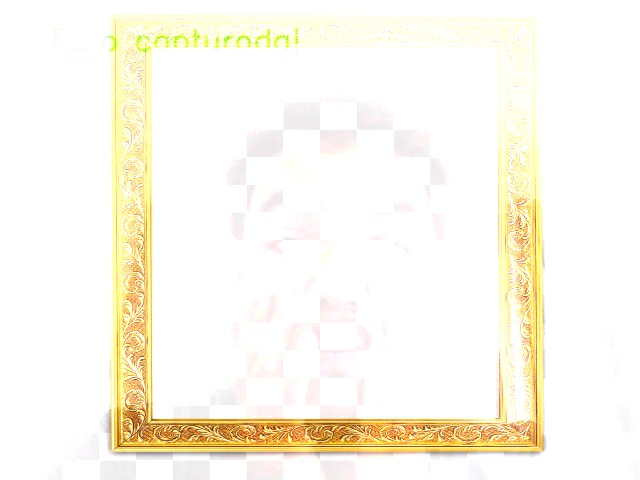
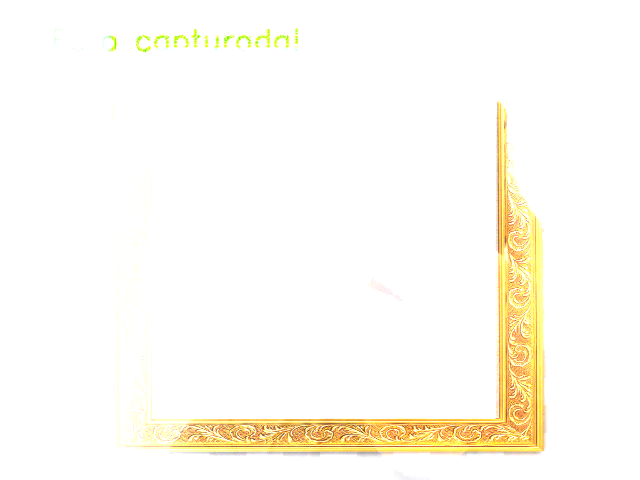
sobrepondo

Changed region(s): [[0.1562, 0.0312, 0.875, 0.9688]]

diff --git a/final_project/teste.py b/final_project/teste.py
@@ -1,0 +1,34 @@
+import cv2
+
+# Carregar as imagens
+foto = cv2.imread('captura.jpg')
+moldura = cv2.imread('moldura.png', cv2.IMREAD_UNCHANGED)  # usar UNCHANGED para PNG com alfa
+
+# Definir posição e tamanho da área da moldura onde a foto será inserida
+# Exemplo: canto superior esquerdo (x, y) = (100, 100), tamanho 300x400 px
+x, y, w, h = 100, 100, 300, 400
+
+# Redimensionar a foto para caber no espaço
+foto_redimensionada = cv2.resize(foto, (w, h))
+
+# Se a moldura tem canal alfa
+if moldura.shape[2] == 4:
+    # Separar canais
+    moldura_rgb = moldura[:, :, :3]
+    moldura_alpha = moldura[:, :, 3] / 255.0
+
+    # Colocar a foto no local desejado da moldura
+    moldura_rgb[y:y+h, x:x+w] = foto_redimensionada
+
+    # Recompor canais com alfa
+    moldura_final = cv2.merge((moldura_rgb, (moldura_alpha*255).astype('uint8')))
+else:
+    # Apenas insere a foto no local desejado da moldura (sem transparência)
+    moldura[y:y+h, x:x+w] = foto_redimensionada
+    moldura_final = moldura
+
+# Salvar ou mostrar o resultado
+cv2.imwrite('foto_na_moldura.png', moldura_final)
+cv2.imshow('Resultado', moldura_final)
+cv2.waitKey(0)
+cv2.destroyAllWindows()

diff --git a/final_project/main.py b/final_project/main.py
@@ -15,9 +15,8 @@ def main():
         imagem = captura.capturar_imagem(cap, 5, 'captura.jpg') # Captura uma imagem após 5 segundos
         cap.release() # Libera a câmera após o uso
 
-        if imagem is not None:
-            # Troque 'moldura.png' pelo arquivo de moldura desejado
-            moldura.adicionar_moldura(imagem, 'moldura.png', output_path='foto_com_moldura.png')
+    if imagem is not None:
+        moldura.adicionar_moldura(imagem, 'moldura.png', output_path='foto_com_moldura.png')
 
 if __name__ == "__main__":
     main()

diff --git a/final_project/pacote/captura.py b/final_project/pacote/captura.py
@@ -24,6 +24,9 @@ def capturar_imagem(cap, delay, filename='captura.jpg'):
 
         cv2.imshow('Webcam', frame)
 
+        imagem = cv2.imread(filename)
+        cv2.imshow('Imagem Capturada', imagem) # Exibe a imagem capturada
+
         # Fecha a janela se a pessoa apertar ESC ou após capturar a foto
         key = cv2.waitKey(1) & 0xFF
         if key == 27:
@@ -31,4 +34,4 @@ def capturar_imagem(cap, delay, filename='captura.jpg'):
 
     cv2.destroyAllWindows()
 
-    return cv2.imread(filename)
+    return imagem

diff --git a/final_project/pacote/moldura.py b/final_project/pacote/moldura.py
@@ -25,4 +25,9 @@ def adicionar_moldura(imagem, moldura_path, output_path='foto_com_moldura.png'):
 
     cv2.imwrite(output_path, resultado)
     print(f"Foto com moldura salva como {output_path}")
+
+    cv2.imshow('Foto com Moldura', resultado) # Exibe a imagem com moldura
+    cv2.waitKey(0)
+    cv2.destroyAllWindows()
+
     return resultado
